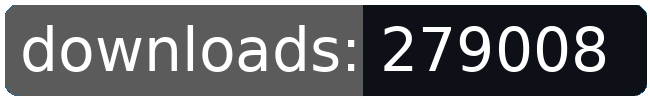
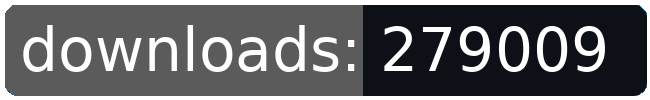
dl log written

Changed region(s): [[0.8615, 0.27, 0.9538, 0.72]]

diff --git a/README.md b/README.md
@@ -406,8 +406,8 @@
 		<td>6134</td>
 		<td>6147</td>
 		<td>6162</td>
-		<td>6168</td>
-		<td>+ 6</td>
+		<td>6169</td>
+		<td>+ 7</td>
 	</tr>
 	<tr>
 		<td>planet.map</td>
@@ -538,8 +538,8 @@
 		<td></td>
 		<td></td>
 		<td></td>
-		<td>279008</td>
-		<td>311</td>
+		<td>279009</td>
+		<td>312</td>
 	</tr>
 </table>
 </sub></sup>
@@ -850,8 +850,8 @@
 		<td>6134</td>
 		<td>6147</td>
 		<td>6162</td>
-		<td>6168</td>
-		<td>+ 6</td>
+		<td>6169</td>
+		<td>+ 7</td>
 	</tr>
 	<tr>
 		<td>landing.images</td>
@@ -1081,8 +1081,8 @@
 		<td></td>
 		<td></td>
 		<td></td>
-		<td>279008</td>
-		<td>311</td>
+		<td>279009</td>
+		<td>312</td>
 	</tr>
 </table>
 </sub></sup>